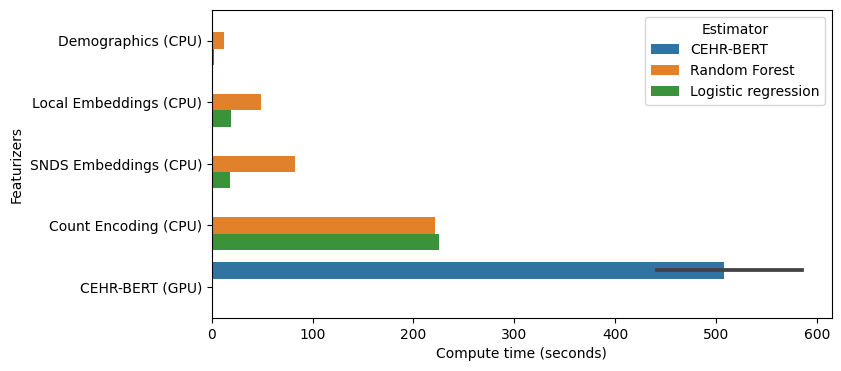
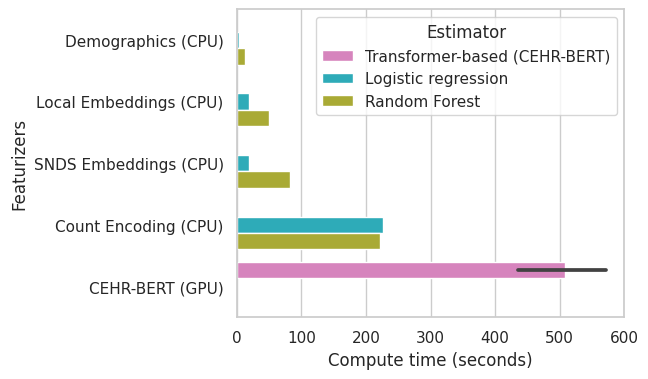
better train time fig

diff --git a/thesis.tex b/thesis.tex
@@ -2736,7 +2736,7 @@ We experimented with gradient boosting trees, without observing significant perf
 
 
 \section{Empirical Study -- Benchmarking three operational and clinical
-tasks}\label{sec:predictive_models:empirical_study}
+  tasks}\label{sec:predictive_models:empirical_study}
 
 \subsection{Navigating between clinical and benchmarking utilities}%
 \label{subsec:predictive_models:task_definitions}%
@@ -2802,8 +2802,8 @@ summarizes key characteristics of the cohorts and task definitions and Appendix
 \subsection{Evaluation procedure -- Exploring the performance-sample trade-off}%
 \label{subsec:predictive_models:evaluation_pipeline}
 
-We split each cohort obtained in Sub-section
-\ref{subsec:predictive_models:task_definitions} into a train and a test set
+We split each cohort described in Table
+\ref{table:predictive_tasks_summary} into a train and a test set
 following a temporal split based on inclusion date with a 0.8/0.2 ratio (Split
 detailed in Appendix \ref{apd:evaluation_procedure}). Each patient only
 appears in one of the two sets. To study the sample efficiency of the different
@@ -2828,49 +2828,41 @@ Under the Receiver Operating Characteristic Curve (ROC AUC) and refer to
 appendices for brier score and average precision results (AUPRC).
 
 
-\subsection{Results -- Tree-based models over event counts outperform elaborated embedding models}%
+\subsection{Results -- Tree-based models on event counts prevail}%
 \label{subsec:predictive_models:results}
 
 
+\paragraph{Count encoding followed by random forest outperform elaborated
+  embedding models}%
 
-\paragraph{Prognosis prediction -- Static embeddings are not more sample efficient
-  than count encoding}%
+Both for the prognosis task (shown if Figure \ref{fig:prognosis_auprc}) and the
+LOS task (shown in Figure \ref{fig:los_roc_auc}), count encoding with random
+forest outperforms other pipelines. For these two tasks, the transformer model
+is far from the best performance, certainly because of the small samples.
 
-Figure \ref{fig:prognosis_auprc} shows the ROC AUC performances of the different
-pipelines for the prognosis task. The performances are averaged over ICD10
-chapters with by reweighing by chapter prevalences. Count encoding featurizer
-outperform static embeddings with random forest outperforms other pipelines.
-Interestingly, the performances of logistic regression hardly improve on the
-previous stay baseline even with the full train set. This indicates that the
-high number of features only damaged the estimation compared to the baseline.
-This is confirmed by the good performance of the demographic-only pipelines.
 
+% lienar combination of icd10 chapter is a strong baseline
+Interestingly for prognosis, the performances of logistic regression with
+demographic is already very good. This indicates that a simple linear
+combination of the previous stay chapters is a strong baseline.
 
 \begin{figure}[!h]
   \centering
   \includegraphics[width=\linewidth]{img/chapter_3/prognosis/average_precision_score__c_weighted.pdf}
-  \caption{Prognosis average precision score, weigthed by prevalences over all
-    ICD10 chapters for different featurizers and estimators. The performances
-    are averaged over 5 folds. The shaded area represents the standard
-    deviation. The horizontal black line displays the naive baseline that
-    predicts the previous stay codes for the target stay. Random forest have
-    better performances. Count encoder outperforms other featurizers, suggesting
-    the importance of low count events that are smoothed out in embedding
-    methods. Appendix \ref{apd:temporal_split:prognosis} details average
-    precision scores for each chapter and displays ROC AUC results.}%
+  \caption{Prognosis average precision score, weigthed by prevalences over 21
+    ICD10 chapters with more than 1\% prevalence. The performances are averaged
+    over 5 folds. The shaded area represents the standard deviation. The
+    horizontal black line displays the naive baseline that predicts the previous
+    stay codes for the target stay. Random forest have better performances.
+    Count encoder outperforms other featurizers, suggesting the importance of
+    low count events that are smoothed out in embedding methods. We report
+    average precision rather than ROC AUC, since it takes better into account
+    the difference in prevalence between chapters. Appendix
+    \ref{apd:temporal_split:prognosis} details average precision scores for each
+    chapter and displays averaged ROC AUC.}%
   \label{fig:prognosis_auprc}
 \end{figure}
 
-
-
-\paragraph{Long LOS interpolation -- Saturating a simple task already requires
-  10,000 samples}%
-
-
-Figure \ref{fig:los_roc_auc} shows that ROC AUC performances for LOS saturates
-at 95\% ROC AUC for random forests and every featurizers but the demographics.
-The transformer model is not able to reach the best performances, certainly
-because of the lack of samples.
 
 \begin{figure}[!h]
   \centering
@@ -2893,7 +2885,7 @@ Figure \ref{fig:prognosis_prevalences_auprc} shows the average precision score
 performances on the prognosis task plotted against the prevalence. Low
 prevalences translate into small number of cases, which decreases overall
 performances and increase variances among chapters with less than 5\%
-prevalences. Appendix \ref{apd:prognosis_prevalences} show similar results for
+prevalences. Appendix \ref{apd:prognosis_prevalences} shows similar results for
 ROC AUC and linear estimators.
 
 
@@ -2915,17 +2907,19 @@ Figure \ref{fig:prognosis_training_time} shows the training time of the
 different pipelines average over the 21 chapters on the prognosis task,
 highlighting the efficiency of the static embedding methods.
 
-
 \begin{figure}[!h]
-  \centering
-  \includegraphics[width=0.8\linewidth]{img/chapter_3/prognosis/training_testing_time_per_chapter.pdf}
-  \caption{Static embeddings are quicker to train. The training times are
-    reported for the full train set for the prognosis task average on the 21
-    ICD10 chapters. For all featurizers expect to CEHR-BERT, jobs were submitted
-    with 10 CPU cores and 36GB memory on a slurm cluster. For CEHR-BERT, the
-    calculation took place on the same cluster with a Nvidia T4 GPU with 16Gb of
-    memory.}%
-  \label{fig:prognosis_training_time}
+  \begin{minipage}{.35\linewidth}
+    \caption{Static embeddings are quicker to train. The training times are
+      reported for the full train set for the prognosis task average on the 21
+      ICD10 chapters. For all featurizers expect to CEHR-BERT, jobs were submitted
+      with 10 CPU cores and 36GB memory on a slurm cluster. For CEHR-BERT, the
+      calculation took place on the same cluster with a Nvidia T4 GPU with 16Gb of
+      memory.}\label{fig:prognosis_training_time}
+  \end{minipage}%
+  \hfill%
+  \begin{minipage}{.62\linewidth}
+    \includegraphics[width=\linewidth]{img/chapter_3/prognosis/training_testing_time_per_chapter.pdf}
+  \end{minipage}
 \end{figure}
 
 
@@ -2934,7 +2928,7 @@ highlighting the efficiency of the static embedding methods.
 
 \section{Conclusion}\label{sec:predictive_models:conclusion}
 
-
+\md{Syntethize the findings in one paragraph.}
 % Restating the study
 State-of-the-art predictive models from structured Electronic Medical Records
 models are hindered by the unsolved challenge of publicly sharing pre-trained
@@ -2978,6 +2972,7 @@ sizes. Because of constraints for these two types of resources on the AP-HP
 computing cluster, we are currently not able to evaluate the MACE task on the
 full cohort.
 
+\md{Detail comodity hardware and large language models.}
 % limit
 \paragraph{Further work} The high number of laboratory measurements for
 hospitalized patients could improve the performances for all tasks. Due to
